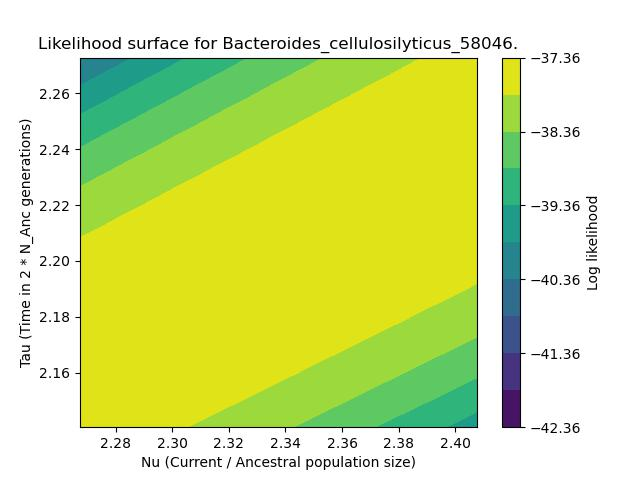
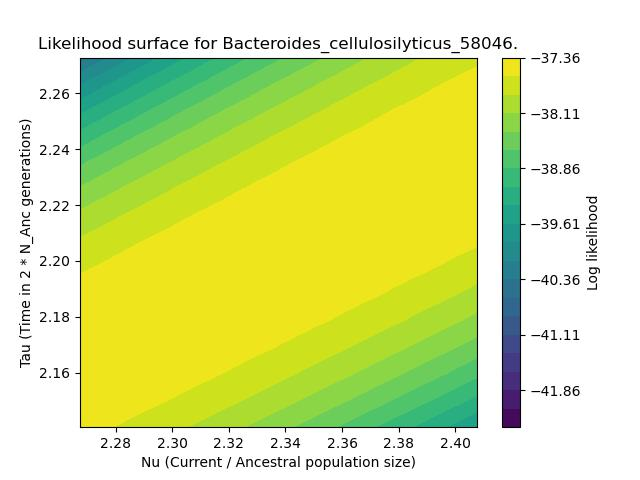
B. cell

diff --git a/Scripts/plot_likelihood.py b/Scripts/plot_likelihood.py
@@ -501,7 +501,7 @@ class PlotLikelihood():
                 # c = ax.pcolormesh(X, Y, Z, cmap='RdBu', vmin=z_min, vmax=z_max, label='Log likelihood')
                 ax.set_xlabel('Nu (Current / Ancestral population size)')
                 ax.set_ylabel('Tau (Time in 2 * N_Anc generations)')
-                levels = numpy.linspace(z_min, z_max, num=11)
+                levels = numpy.linspace(z_min, z_max, num=21)
                 contourplot = ax.contourf(X, Y, Z, levels=levels)
                 # ticks = numpy.arange(z_min, z_max, 1.0)
                 cbar = fig.colorbar(contourplot, label='Log likelihood') # Add a colorbar to a plot
